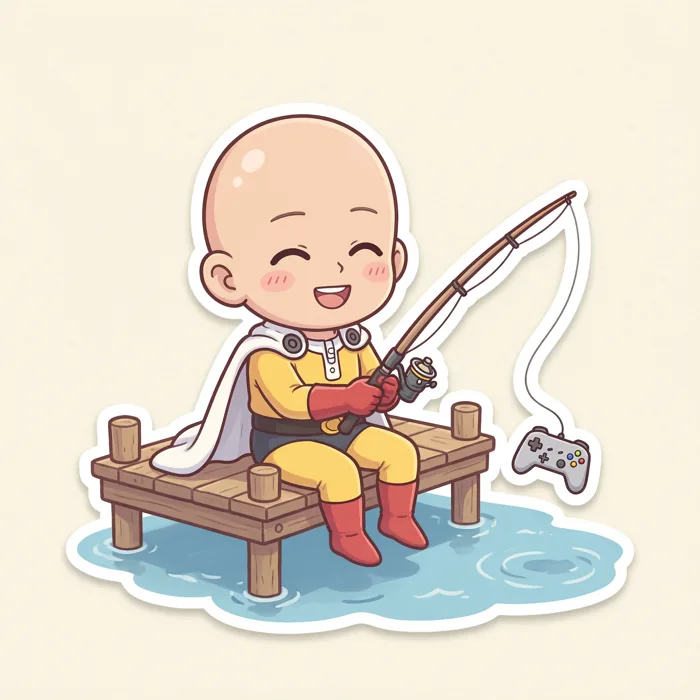
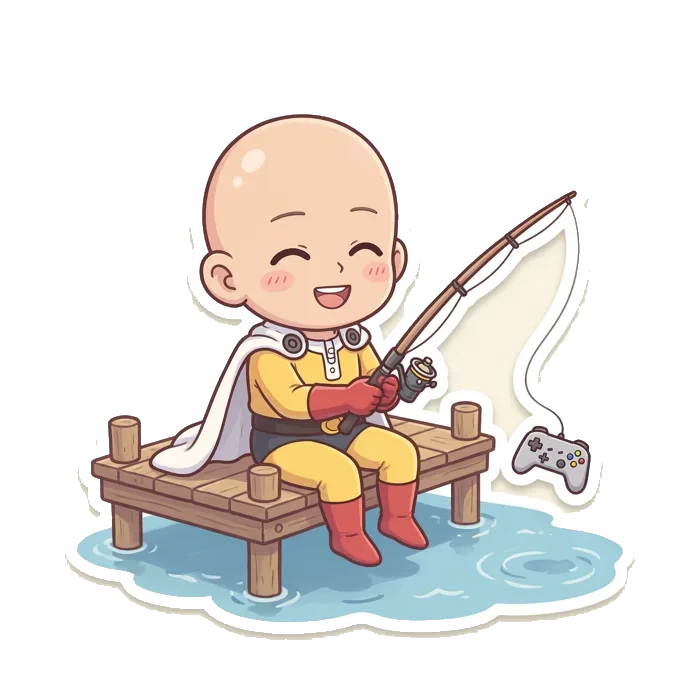
S32: рыбалка — один улов в сутки и сцена вместо эмодзи
Каждый клик давал новую случайную игру из 459, в localStorage ключа рыбалки не было. Теперь ключ tiankami_catch_YYYY-MM-DD с местной датой: после заброса кнопка говорит «Придти завтра» и заблокирована, после перезагрузки показывается тот же улов. Дата местная, не UTC, иначе после 21:00 по МСК сутки менялись бы не вовремя.

Сцена: поплавок на леске (SVG), при подсечке линия уходит вниз, брызги, карточка выскакивает пружиной. Эмодзи 🌊 и 🎣 убраны. Волны и брызги стоят при prefers-reduced-motion — рыбалка была исключением из правила сайта.

Маскот-рыбак был светлым квадратом: кремовый фон внутри файла. Скрипт вырезания получил режим --cream (крем отличаю от белого одеяла по каналам, поэтому одеяло цело).

diff --git a/src/components/CatchOfDay.jsx b/src/components/CatchOfDay.jsx
@@ -1,4 +1,4 @@
-import { useRef, useState } from "react";
+import { useEffect, useRef, useState } from "react";
 import { Link } from "react-router-dom";
 import { FiArrowRight, FiStar } from "react-icons/fi";
 import { useData } from "./DataProvider";
@@ -7,121 +7,148 @@ import { statusMeta, ratingColor } from "../utils/statusMeta";
 import { parseNum } from "../utils/normalize";
 import { moodOf } from "../utils/recommend";
 import { MASCOTS } from "../config/mascots";
+import { safeGet, safeSet } from "../utils/storage";
 
-// 🎣 Рыбалка-сфера: 3 слоя волн (bob 10s), spring-подсечка, 24 брызги.
+// Улов дня. Один заброс в сутки на браузер: ключ tiankami_catch_YYYY-MM-DD.
+// Дата местная, не UTC: иначе после 21:00 по МСК сутки менялись бы не вовремя.
+const todayKey = () => {
+  const d = new Date();
+  const p = (n) => String(n).padStart(2, "0");
+  return `tiankami_catch_${d.getFullYear()}-${p(d.getMonth() + 1)}-${p(d.getDate())}`;
+};
+
+// Поплавок на леске: линия с точками, floats при подсечке уходит вниз.
+function Bobber({ dip }) {
+  return (
+    <svg
+      viewBox="0 0 120 160"
+      className={"h-40 w-24 transition-transform duration-700 ease-out " + (dip ? "translate-y-6" : "")}
+      aria-hidden="true"
+    >
+      <line x1="60" y1="0" x2="60" y2="92" stroke="#B9B4CF" strokeWidth="2" strokeDasharray="4 4" />
+      <ellipse cx="60" cy="104" rx="16" ry="18" fill="#FF2D2D" />
+      <ellipse cx="60" cy="104" rx="16" ry="18" fill="url(#bob-shine)" />
+      <ellipse cx="60" cy="122" rx="9" ry="7" fill="#FFFFFF" opacity="0.9" />
+      <defs>
+        <linearGradient id="bob-shine" x1="0" y1="0" x2="1" y2="1">
+          <stop offset="0%" stopColor="#FFFFFF" stopOpacity="0.45" />
+          <stop offset="60%" stopColor="#FFFFFF" stopOpacity="0" />
+        </linearGradient>
+      </defs>
+    </svg>
+  );
+}
+
 export function CatchOfDay() {
   const { games, rarityBySlug } = useData();
   const [caught, setCaught] = useState(null);
   const [phase, setPhase] = useState("idle"); // idle | casting | caught
+  const [locked, setLocked] = useState(false);
   const [drops, setDrops] = useState([]);
   const dropId = useRef(0);
+  const calm =
+    typeof window !== "undefined" &&
+    typeof window.matchMedia === "function" &&
+    window.matchMedia("(prefers-reduced-motion: reduce)").matches;
+
+  // Улов за сегодня — из хранилища. Только после mount: сервер рисует пустое
+  // состояние, иначе разъедется разметка (React #418).
+  useEffect(() => {
+    const saved = safeGet(todayKey());
+    if (!saved?.slug) return;
+    const game = games.find((g) => g.slug === saved.slug);
+    if (game) {
+      setCaught(game);
+      setPhase("caught");
+      setLocked(true);
+    }
+  }, [games]);
 
   const cast = () => {
-    if (phase === "casting" || !games.length) return;
-    setPhase("casting");
-    setTimeout(() => {
+    if (phase === "casting" || locked || !games.length) return;
+    const finish = () => {
       const game = games[(Math.random() * games.length) | 0];
       setCaught(game);
       setPhase("caught");
-      const burst = Array.from({ length: 24 }, () => ({
+      setLocked(true);
+      safeSet(todayKey(), { slug: game.slug });
+      if (calm) return;
+      const burst = Array.from({ length: 18 }, () => ({
         id: dropId.current++,
-        x: 50 + (Math.random() - 0.5) * 60,
-        y: 45 + Math.random() * 15,
-        dx: (Math.random() - 0.5) * 200,
-        dy: -50 - Math.random() * 120,
+        x: 50 + (Math.random() - 0.5) * 40,
+        y: 46 + Math.random() * 8,
+        dx: (Math.random() - 0.5) * 220,
+        dy: -60 - Math.random() * 130,
       }));
       setDrops(burst);
       setTimeout(() => setDrops([]), 950);
-    }, 450);
+    };
+    if (calm) {
+      finish();
+      return;
+    }
+    setPhase("casting");
+    setTimeout(finish, 450);
   };
+
+  const MoodIcon = caught ? moodOf(caught).icon : null;
 
   return (
     <section
       className="card relative overflow-hidden border-pastel-blue/20"
       aria-label="Улов дня"
     >
-      {/* 3 слоя волн */}
+      {/* Три слоя волн — уже были в дизайн-системе */}
       <div
         className="wave-bob pointer-events-none absolute inset-x-0 bottom-0 h-40"
         aria-hidden="true"
       >
-        <svg
-          className="wave-l1"
-          viewBox="0 0 1200 100"
-          preserveAspectRatio="none"
-        >
-          <path
-            d="M0 55 Q150 15 300 55 T600 55 T900 55 T1200 55 V100 H0Z"
-            fill="#123a6b"
-            opacity=".55"
-          />
+        <svg className="wave-l1" viewBox="0 0 1200 100" preserveAspectRatio="none">
+          <path d="M0 55 Q150 15 300 55 T600 55 T900 55 T1200 55 V100 H0Z" fill="#123a6b" opacity=".55" />
         </svg>
-        <svg
-          className="wave-l2"
-          viewBox="0 0 1200 100"
-          preserveAspectRatio="none"
-        >
-          <path
-            d="M0 65 Q150 35 300 65 T600 65 T900 65 T1200 65 V100 H0Z"
-            fill="#2a6fb0"
-            opacity=".4"
-          />
+        <svg className="wave-l2" viewBox="0 0 1200 100" preserveAspectRatio="none">
+          <path d="M0 65 Q150 35 300 65 T600 65 T900 65 T1200 65 V100 H0Z" fill="#2a6fb0" opacity=".4" />
         </svg>
-        <svg
-          className="wave-l3"
-          viewBox="0 0 1200 100"
-          preserveAspectRatio="none"
-        >
-          <path
-            d="M0 75 Q150 50 300 75 T600 75 T900 75 T1200 75 V100 H0Z"
-            fill="#A0C4FF"
-            opacity=".3"
-          />
+        <svg className="wave-l3" viewBox="0 0 1200 100" preserveAspectRatio="none">
+          <path d="M0 75 Q150 50 300 75 T900 75 T1200 75 V100 H0Z" fill="#A0C4FF" opacity=".3" />
         </svg>
       </div>
 
       <div className="relative grid items-center gap-8 p-6 md:p-10 lg:grid-cols-[minmax(0,2fr)_minmax(0,3fr)]">
         <div>
           <h2 className="section-title">
-            🎣 Улов <span className="section-accent">дня</span>
+            Улов <span className="section-accent">дня</span>
           </h2>
           <p className="mt-2 text-sm text-ink-dim">
             Не знаешь, во что зайти? Закинь удочку в каталог из {games.length}{" "}
-            рогаликов — вдруг клюнет легенда.
+            рогаликов — вдруг клюнет легенда. Заброс один в день: следующий — завтра.
           </p>
           <div className="mt-5 flex items-end gap-4">
             <button
               type="button"
               onClick={cast}
-              disabled={phase === "casting"}
-              className="btn-primary !px-6 !py-3 text-base"
+              disabled={phase === "casting" || locked}
+              className="btn-primary !px-6 !py-3 text-base disabled:cursor-not-allowed disabled:opacity-60"
             >
-              <span
-                className={
-                  "text-xl " + (phase === "casting" ? "animate-bounce" : "")
-                }
-              >
-                🎣
-              </span>
               {phase === "casting"
                 ? "Подсечка!.."
-                : caught
-                  ? "Ещё разок!"
+                : locked
+                  ? "Придти завтра"
                   : "Поймать случайную игру"}
             </button>
             <img
               src={MASCOTS.fisher}
-              alt="Кроассан-рыбак"
+              alt="Сайтама-рыбак с удочкой"
               width={700}
               height={700}
-              className="hidden w-28 -scale-x-100 drop-shadow-[0_6px_16px_rgba(0,0,0,.5)] sm:block"
+              className="hidden w-28 drop-shadow-[0_6px_16px_rgba(0,0,0,.5)] sm:block"
               loading="lazy"
             />
           </div>
         </div>
 
         <div
-          className="relative flex min-h-[250px] items-center justify-center"
+          className="relative flex min-h-[220px] items-end justify-center"
           aria-live="polite"
         >
           {drops.map((d) => (
@@ -136,16 +163,14 @@ export function CatchOfDay() {
               }}
             />
           ))}
-          {phase === "idle" && (
-            <div className="wave-bob text-6xl" aria-hidden="true">
-              🌊
+
+          {/* Пока не поймано — поплавок на воде */}
+          {phase !== "caught" && (
+            <div className={calm ? "" : "animate-floaty"}>
+              <Bobber dip={phase === "casting"} />
             </div>
           )}
-          {phase === "casting" && (
-            <div className="text-6xl" aria-hidden="true">
-              🎣
-            </div>
-          )}
+
           {phase === "caught" && caught && (
             <div className="catch-spring card w-full max-w-sm overflow-hidden border-pastel-blue/40 shadow-glow-blue">
               <div className="relative aspect-[2/1] bg-night-900">
@@ -156,7 +181,7 @@ export function CatchOfDay() {
                     className="h-full w-full object-cover"
                   />
                 )}
-                <span className="absolute left-2 top-2 catch-spring">
+                <span className="absolute left-2 top-2">
                   <RarityEgg
                     rarity={rarityBySlug?.[caught.slug] || "common"}
                     size={40}
@@ -165,11 +190,7 @@ export function CatchOfDay() {
                 {parseNum(caught.rating) > 0 && (
                   <span className="chip absolute right-2 top-2 border border-white/10 bg-night-900/80 text-lg">
                     <FiStar className={ratingColor(caught.rating)} />
-                    <span
-                      className={
-                        ratingColor(caught.rating) + " text-lg font-black"
-                      }
-                    >
+                    <span className={ratingColor(caught.rating) + " text-lg font-black"}>
                       {parseNum(caught.rating)}/10
                     </span>
                   </span>
@@ -182,15 +203,21 @@ export function CatchOfDay() {
                 <div className="flex flex-wrap items-center gap-1.5 text-xs text-ink-dim">
                   <span
                     className="chip border border-pastel-mint/25 bg-pastel-mint/10 text-pastel-mint"
-                    title="Почему клюнуло: настроение забега"
+                    title="Настроение забега"
                   >
-                    {(() => { const M = moodOf(caught); const MI = M.icon; return <>{MI && <MI className="shrink-0" aria-hidden="true" />} {M.label}</>; })()}
+                    {MoodIcon && <MoodIcon className="shrink-0" aria-hidden="true" />}{" "}
+                    {moodOf(caught).label}
                   </span>
                   <span className="truncate">
                     {caught.genre || "Рогалик"}
                     {caught.setting ? ` · ${caught.setting}` : ""}
                   </span>
                   <span className={statusMeta(caught.status).cls + " chip"}>
+                    {(() => {
+                      const m = statusMeta(caught.status);
+                      const I = m.icon;
+                      return I ? <I className="shrink-0" aria-hidden="true" /> : null;
+                    })()}{" "}
                     {caught.status}
                   </span>
                 </div>
